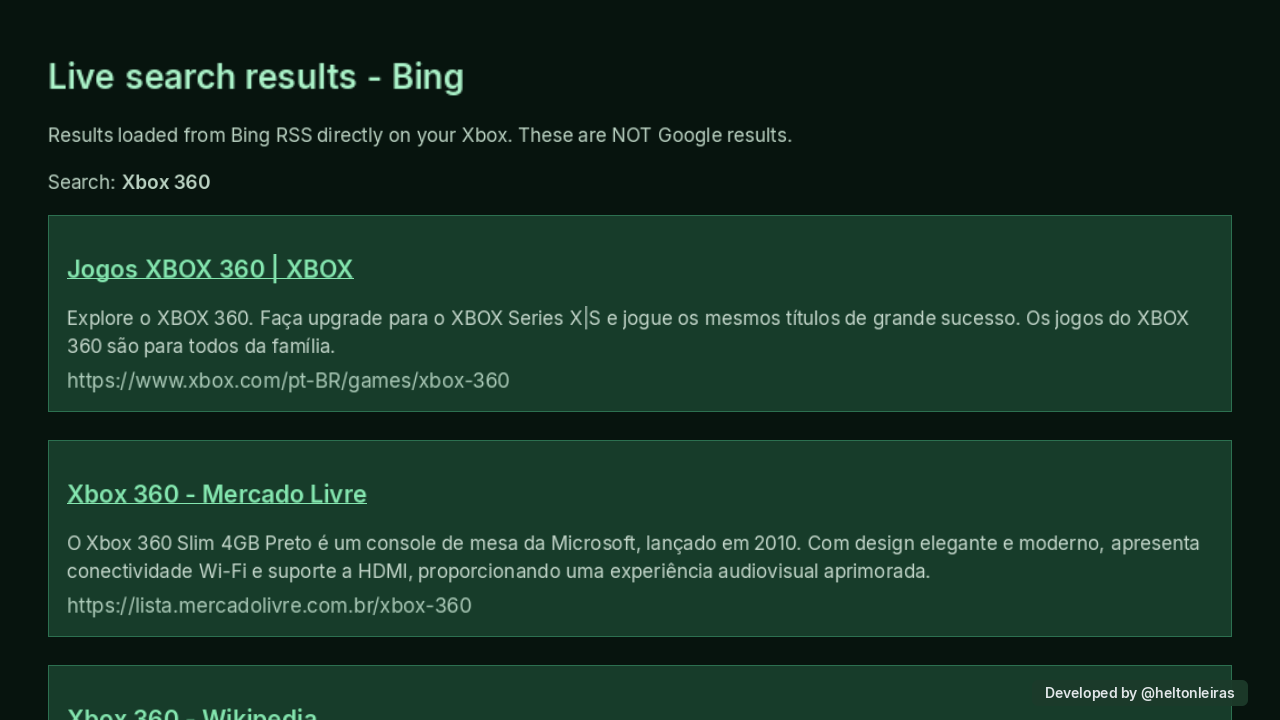
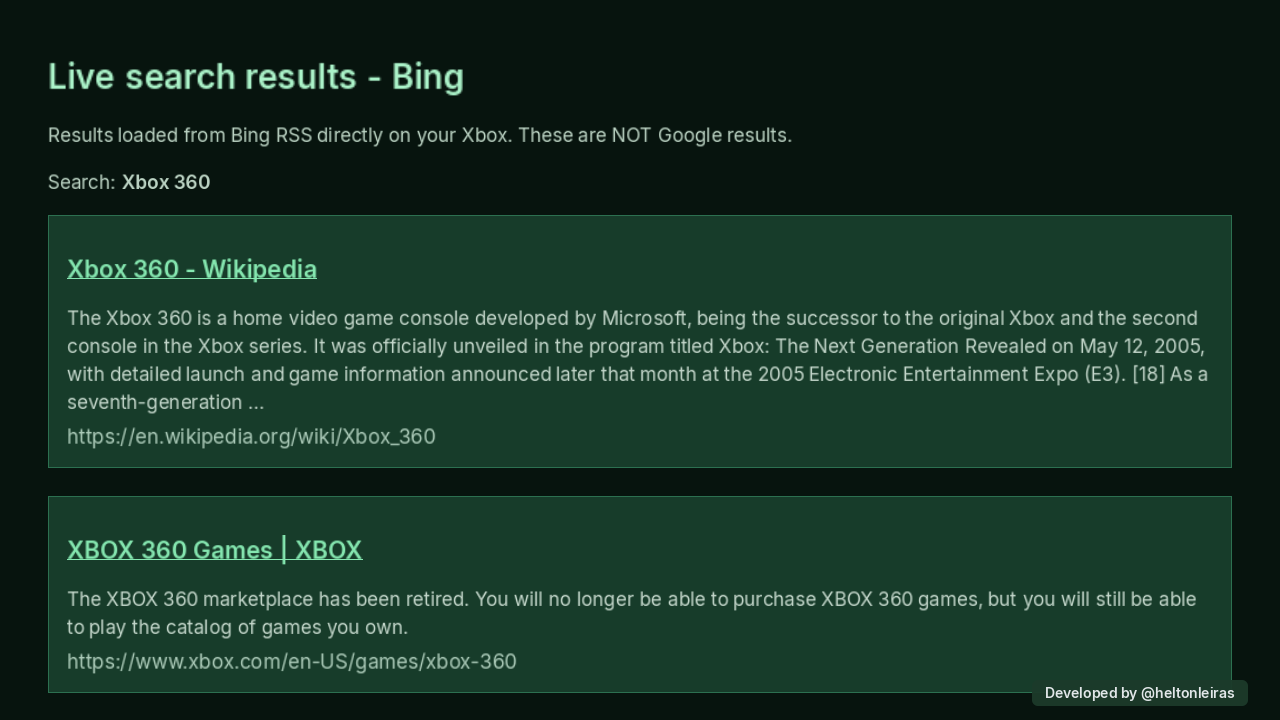
Make X360Browser interface and documentation English-only

Changed region(s): [[0.0312, 0.4278, 0.9688, 0.7028], [0.0312, 0.7333, 0.9688, 1.0], [0.0312, 0.3361, 0.2812, 0.3972]]

diff --git a/tests/native_checks.cpp b/tests/native_checks.cpp
@@ -19,10 +19,11 @@ static void save(const char* path) {
 #include "styled_checks.h"
 static void checks() {
     char url[WEB_URL];
-    assert(webSearchOrURL("Xbox 360",url,sizeof(url)) && !strcmp(url,"https://www.google.com/search?q=Xbox%20360"));
+    assert(webSearchOrURL("Xbox 360",url,sizeof(url)) && !strcmp(url,"https://www.google.com/search?q=Xbox%20360&hl=en"));
     assert(webSearchOrURL("xbox 360",url,sizeof(url),true) && webPrefix(url,"https://www.google.com/search?q="));
-    assert(webSearchOrURL("x360hub.com",url,sizeof(url),true) && !strcmp(url,"https://www.google.com/search?q=x360hub%2Ecom"));
+    assert(webSearchOrURL("x360hub.com",url,sizeof(url),true) && !strcmp(url,"https://www.google.com/search?q=x360hub%2Ecom&hl=en"));
     assert(browserGoogleHomeURL("https://www.google.com/"));
+    assert(browserGoogleHomeURL("https://www.google.com/?hl=en"));
     assert(!browserGoogleHomeURL("https://www.google.com/search?q=test"));
     std::string invalidGoogle;assert(!browserGooglePrepareHTML("https://www.google.com/","<html>not Google</html>",invalidGoogle));
     assert(webResolveURL("https://example.com/a/b","/test?q=1",url,sizeof(url)) && !strcmp(url,"https://example.com/test?q=1"));
@@ -99,16 +100,16 @@ static void searchResultsChecks(){
     assert(!browserGoogleRequiresJS("<html><title>Google Search</title><p>results</p></html>"));
     std::string html;
     assert(browserGoogleSearchNotice("https://www.google.com/search?q=Xbox%20360",html));
-    assert(html.find("https://www.bing.com/search?q=Xbox%20360&amp;format=rss")!=std::string::npos);
+    assert(html.find("https://www.bing.com/search?q=Xbox%20360&amp;format=rss&amp;mkt=en-US")!=std::string::npos);
     assert(html.find("NOT Google")==std::string::npos || html.find("Bing")!=std::string::npos);
     assert(html.find("Xbox 360")!=std::string::npos);
-    assert(browserIsBingRSSURL("https://www.bing.com/search?q=Xbox%20360&format=rss"));
+    assert(browserIsBingRSSURL("https://www.bing.com/search?q=Xbox%20360&format=rss&mkt=en-US"));
     assert(!browserIsBingRSSURL("https://www.bing.com/search?q=Xbox%20360"));
     webParseHTML(&document,html.c_str(),"https://www.google.com/search?q=Xbox%20360");
     assert(document.linkCount>=2);
     bool optIn=false;
     for(int i=0;i<document.linkCount;++i)
-        if(strstr(document.links[i],"bing.com/search?q=Xbox%20360&format=rss"))optIn=true;
+        if(strstr(document.links[i],"bing.com/search?q=Xbox%20360&format=rss&mkt=en-US"))optIn=true;
     assert(optIn);
     const char* feed="<?xml version='1.0'?><rss version='2.0'><channel>"
        "<item><title>X &amp; Y</title><link>https://example.com/a?x=1&amp;y=2</link>"
@@ -116,12 +117,12 @@ static void searchResultsChecks(){
        "<item><title>Another</title><link>https://example.com/b</link>"
        "<description>Second result</description></item></channel></rss>";
     int items=0;
-    assert(browserRenderBingRSS("https://www.bing.com/search?q=one&format=rss",feed,(int)strlen(feed),html,&items));
+    assert(browserRenderBingRSS("https://www.bing.com/search?q=one&format=rss&mkt=en-US",feed,(int)strlen(feed),html,&items));
     assert(items==2 && html.find("X &amp; Y")!=std::string::npos &&
            html.find("Real content")!=std::string::npos &&
            html.find("https://example.com/a?x=1&amp;y=2")!=std::string::npos);
     assert(html.find("NOT Google")!=std::string::npos);
-    assert(!browserRenderBingRSS("https://www.bing.com/search?q=test&format=rss",
+    assert(!browserRenderBingRSS("https://www.bing.com/search?q=test&format=rss&mkt=en-US",
            "<html>not rss</html>",20,html,&items));
     printf("PASS: real Google JS-required interstitial detected, opt-in Bing fallback, RSS escaped and clickable.\n");
 }
@@ -236,7 +237,7 @@ static void networkGoogleSearchFallbackCheck(){
         char clicked[WEB_URL]="";
         bool clickedOptIn=browserStyledClick(page,135,275,clicked,sizeof(clicked));
         printf("GOOGLE notice clickable: hit=%d url=%.150s\n",clickedOptIn,clicked);
-        if(!clickedOptIn || strcmp(clicked,"https://www.bing.com/search?q=Xbox%20360&format=rss"))exit(10);
+        if(!clickedOptIn || strcmp(clicked,"https://www.bing.com/search?q=Xbox%20360&format=rss&mkt=en-US"))exit(10);
         webParseHTML(&document,notice.c_str(),googleURL);
         document.styled=page;
         xui_canvas_t canvas;xui_canvas_init(&canvas,screen,1280,720,1280);
@@ -249,7 +250,7 @@ static void networkGoogleSearchFallbackCheck(){
        gotGoogle?"OK":"FAIL",blocked,shown,shown?document.linkCount:0,message);
     if(!gotGoogle||!blocked||!shown||!page||document.linkCount<2)exit(8);
     browserStyledDestroy(page);free(google.bytes);
-    const char* alternate="https://www.bing.com/search?q=Xbox%20360&format=rss";
+    const char* alternate="https://www.bing.com/search?q=Xbox%20360&format=rss&mkt=en-US";
     WebDownload feed={0};char issue[192]="";
     bool downloaded=webDownload(alternate,&feed,issue,sizeof(issue));
     std::string listing;int count=0;
@@ -272,7 +273,7 @@ static void networkGoogleSearchFallbackCheck(){
 static void networkGoogleHomepageCheck(){
     webNetState.cancel=0;WebDownload page={0};char err[192]="";
     DWORD start=GetTickCount();
-    bool ok=webDownload("https://www.google.com/",&page,err,sizeof(err));
+    bool ok=webDownload("https://www.google.com/?hl=en",&page,err,sizeof(err));
     std::string realGoogle;
     bool transformed=ok && browserGooglePrepareHTML(page.url,(const char*)page.bytes,realGoogle);
     void* styled=transformed?browserStyledCreate(realGoogle.c_str(),page.url,webStyledResourceFetch,NULL):NULL;

diff --git a/src/search_results.cpp b/src/search_results.cpp
@@ -96,7 +96,7 @@ bool browserGoogleSearchNotice(const char* googleURL,std::string& html){
     html+="<p>The actual Google response did not contain search results. It requested a modern JavaScript-enabled browser. X360Browser cannot run this Google page yet.</p>";
     if(safeQuery(query)){
         html+="<p>Search requested: <strong>"+escaped(decodeQuery(query))+"</strong></p>";
-        std::string alternate="https://www.bing.com/search?q="+query+"&format=rss";
+        std::string alternate="https://www.bing.com/search?q="+query+"&format=rss&mkt=en-US";
         html+="<a class='action' href='"+escaped(alternate)+"'>Search with Bing instead (real results, different provider)</a>";
         html+="<p class='note'>Bing is NOT Google. Selecting this link sends your search terms to Bing. Nothing is sent to Bing unless you select it.</p>";
     }
@@ -159,6 +159,6 @@ bool browserRenderBingRSS(const char* url,const char* rss,int size,std::string& 
         ++found;
     }
     if(items)*items=found;
-    html+="<p><a href='https://www.google.com/'>Google home</a></p></div></body></html>";
+    html+="<p><a href='https://www.google.com/?hl=en'>Google home</a></p></div></body></html>";
     return found>0 && html.size()<WEB_HTML_LIMIT;
 }

diff --git a/src/lg_ui.h b/src/lg_ui.h
@@ -24,9 +24,9 @@ static void lgGoogleSearchOverlay(xui_canvas_t* c,const NativeView* view){
     xui_round_rect(c,328,274+offset,624,60,28,0xffffff,255);
     xui_round_frame(c,328,274+offset,624,60,28,hover?3:2,hover?0x4285f4:0xdadce0);
     xui_mask(c,&shell_search,350,291+offset,0x60666d,255);
-    browserText(c,XUI_F_BODY,398,293+offset,"Pesquisar no Google",0x5f6368,500);
+    browserText(c,XUI_F_BODY,398,293+offset,"Search Google",0x5f6368,500);
     xui_round_rect(c,503,354+offset,274,47,7,hoverButton?0xe6f0ff:0xf8f9fa,255);
-    browserCentered(c,XUI_F_BODY,503,354+offset,274,47,"Pesquisa Google",0x202124);
+    browserCentered(c,XUI_F_BODY,503,354+offset,274,47,"Google Search",0x202124);
 }
 static int lgPageTop(const NativeView* view){return view->chrome?76:0;}
 static int nativeHitLink(const NativeView* view) {

diff --git a/tools/verify_google_results.py b/tools/verify_google_results.py
@@ -64,7 +64,7 @@ def main():
         headers={
             "User-Agent": USER_AGENT,
             "Accept": "text/html,application/xhtml+xml",
-            "Accept-Language": "pt-BR,pt;q=0.9",
+            "Accept-Language": "en-US,en;q=0.9",
         },
     )
     try:
@@ -82,7 +82,7 @@ def main():
     if "/httpservice/retry/enablejs" in text:
         print("FAIL: Real Google responded with a JavaScript-required interstitial, not results.")
         return 1
-    if "Atualize o navegador" in text or "Your browser is no longer supported" in text:
+    if "Your browser is no longer supported" in text or "Please update your browser" in text:
         print("FAIL: Real Google rejected this browser as unsupported.")
         return 1
 

diff --git a/src/native_main.cpp b/src/native_main.cpp
@@ -309,7 +309,7 @@ static void click() {
     }
     if(home) {
         int hit=nativeHomeHit((int)mouseX,(int)mouseY);
-        const char* urls[]={"https://www.google.com/","https://x360hub.vercel.app/","https://en.wikipedia.org/wiki/Main_Page","https://example.com/"};
+        const char* urls[]={"https://www.google.com/?hl=en","https://x360hub.vercel.app/","https://en.wikipedia.org/wiki/Main_Page","https://example.com/"};
         if(hit==0)openKeyboard();else if(hit>=1 && hit<=4)navigate(urls[hit-1]);else if(hit==5)navigate("browser:help");
     } else {
         NativeView googleView=makeView();

diff --git a/src/native_document.h b/src/native_document.h
@@ -84,7 +84,10 @@ static bool webSearchOrURL(const char* input,char* output,size_t capacity,bool g
         if(isalnum(*p) || *p=='-' || *p=='_')output[n++]=*p;
         else {output[n++]='%';output[n++]=hex[*p>>4];output[n++]=hex[*p&15];}
     }
-    output[n]=0;return true;
+    // Force English for queries sent to Google, independent of console locale.
+    if(n+7>capacity)return false;
+    memcpy(output+n,"&hl=en",7);
+    return true;
 }
 static int webUTF8(unsigned code,char* out) {
     if(!code || code>0x10ffff || (code>=0xd800 && code<=0xdfff))code='?';

diff --git a/README.md b/README.md
@@ -1,65 +1,65 @@
 # X360Browser
 
-**Navegador experimental que roda 100% diretamente no Xbox 360 RGH/JTAG.** É um aplicativo nativo `default.xex`, feito para o processador PowerPC do console. **Não precisa de PC, streaming, navegador remoto, proxy ou servidor intermediário** para funcionar.
+**An experimental web browser that runs 100% natively on Xbox 360 RGH/JTAG.** X360Browser is a PowerPC application distributed as `default.xex`. It does **not** require a PC, remote browser, streaming service, proxy, or intermediary server.
 
-A conexão é direta do Xbox 360 com os sites da internet. **Os servidores dos próprios sites continuam necessários**, assim como a conexão com a internet. Recursos como o catálogo X360HUB consultam dados públicos do próprio site.
+Your Xbox 360 connects directly to websites over the internet. **An internet connection and the websites' own servers are still required** to access online pages. The X360HUB catalog reads publicly available data directly from its official website.
 
-![X360Browser](docs/green-home.png)
+![X360Browser home screen](docs/green-home.png)
 
-## Baixar e instalar
+## Download and install
 
-**Versão atual: 0.10.0 (experimental)**
+**Current version: 0.10.0 (experimental)**
 
-[Baixar default.xex](https://github.com/heltindev/X360Browser/releases/download/v0.10.0-dom-foundation-preview/default.xex) · [Ver a versão atual](https://github.com/heltindev/X360Browser/releases/tag/v0.10.0-dom-foundation-preview)
+[Download default.xex](https://github.com/heltindev/X360Browser/releases/download/v0.10.0-dom-foundation-preview/default.xex) | [Current release](https://github.com/heltindev/X360Browser/releases/tag/v0.10.0-dom-foundation-preview)
 
-1. Baixe o arquivo `default.xex` na página de Releases.
-2. Copie o arquivo para o HD ou USB do Xbox 360 RGH/JTAG.
-3. Execute o XEX pelo Aurora.
+1. Download `default.xex` from the current release.
+2. Copy the file to your Xbox 360 RGH/JTAG HDD or USB drive.
+3. Launch the XEX with Aurora.
 
-Não é necessário iniciar nada em um computador ou hospedar um servidor próprio. Para páginas HTTPS, mantenha a data/hora do console configuradas corretamente.
+No PC application or self-hosted server is necessary. Make sure your console's date and time are correct for HTTPS certificates.
 
-## O que já existe
+## Current features
 
-- Interface escura e verde, estilo Smart TV, com barra que se recolhe.
-- Mouse virtual pelo controle, até quatro abas, histórico e barra de endereço.
-- Download direto de páginas HTML, CSS e imagens por HTTP/HTTPS.
-- Suporte parcial a JavaScript e layout responsivo; imagens JPEG, PNG, BMP e primeiro quadro de GIF.
-- Página inicial do Google com busca; resultados do Google ainda não funcionam corretamente.
-- Alternativa opcional de resultados do Bing, identificada como Bing.
-- Visualização do catálogo X360HUB com dados públicos recebidos diretamente pelo console.
+- Dark and green Smart TV-inspired interface with an auto-hiding toolbar.
+- Controller-operated mouse cursor, up to four tabs, history, and an address bar.
+- Direct HTTP/HTTPS downloads of supported HTML, CSS, and images.
+- Partial JavaScript and responsive layout support; JPEG, PNG, BMP, and the first frame of GIF images.
+- Google homepage and a native search field; actual Google search results are **not working yet**.
+- Optional, clearly identified Bing search results as a separate provider.
+- A native view of the X360HUB catalog using public data fetched by the console.
 
-**Atenção:** é uma versão em desenvolvimento. Nem todos os sites abrem corretamente. Os testes em PC não substituem um teste no Xbox 360 físico.
+**Important:** This is an experimental build. Many modern websites are not fully supported. Windows-host tests do not replace testing on real Xbox 360 hardware.
 
-## Controles
+## Controller buttons
 
-| Botão | Função |
+| Button | Action |
 |---|---|
-| Analógico esquerdo / direcional | Mover cursor |
-| A | Clicar |
-| LT / RT ou analógico direito | Rolar a página |
-| B / LB | Voltar |
-| RB | Avançar |
-| Y / X | Endereço ou pesquisa |
-| START / R3 | Recarregar |
-| BACK | Página inicial |
-| L3 | Menu |
+| Left stick / D-pad | Move the cursor |
+| A | Click |
+| LT / RT or right stick | Scroll |
+| B / LB | Back |
+| RB | Forward |
+| Y / X | Address bar or search |
+| START / R3 | Reload |
+| BACK | Home screen |
+| L3 | Open the menu |
 
-## O que falta atualizar
+## Development roadmap
 
-- **Motor JavaScript moderno:** portar um motor compatível com o Xbox 360 PowerPC.
-- **DOM completo:** eventos, formulários, atualização dinâmica das páginas e navegação.
-- **Web APIs:** implementar fetch, XHR, cookies, armazenamento, tarefas assíncronas e compatibilidade HTTPS.
-- **HTML/CSS:** melhorar Flexbox, Grid, fontes, posicionamento e páginas responsivas.
-- **Google:** carregar e navegar pelos resultados reais, sem tela branca ou outro buscador no lugar.
-- **Vídeos:** adicionar suporte real a MP4/H.264, reprodução HTML5 e, futuramente, sites como YouTube.
-- **Estabilidade:** corrigir bugs, uso de memória, velocidade e testar cada recurso em um Xbox físico.
+- **Modern JavaScript engine:** Port a modern ECMAScript runtime to Xbox 360 PowerPC.
+- **Complete DOM:** Implement persistent nodes, events, forms, and dynamic page updates.
+- **Browser Web APIs:** Support fetch/XHR, cookies, storage, asynchronous tasks, and web security rules.
+- **HTML/CSS:** Improve Flexbox, Grid, fonts, positioning, and responsive layouts.
+- **Google Search:** Display and navigate actual Google results without a blank screen or a substitute provider.
+- **Video:** Implement real MP4/H.264 and HTML5 video playback, with longer-term support for video websites.
+- **Performance and reliability:** Fix crashes, memory limits, rendering speed, and hardware compatibility.
 
-Tudo isso deve funcionar **localmente no próprio Xbox 360**, sem depender de PC ou servidor intermediário.
+**All browser execution must remain local to the Xbox 360**, without a PC, remote browser, or intermediary server. Online websites still use their own internet servers.
 
-## Desenvolvimento
+## Building from source
 
-Código C/C++ para **Visual Studio 2010 + Xbox 360 SDK**. Para compilar, execute `build-release.cmd`; o resultado é `Release/default.xex`.
+The project is written in C/C++ for **Visual Studio 2010 + Xbox 360 SDK**. Run `build-release.cmd` to produce `Release/default.xex`.
 
-A versão atual usa litehtml e Duktape, com limitações conhecidas. O projeto é independente, não afiliado à Microsoft, LG ou Google. Licença: GPL-3.0. Bibliotecas e licenças em [THIRD_PARTY.md](THIRD_PARTY.md).
+The current build uses litehtml and Duktape, with known limitations. It is an independent project, not affiliated with Microsoft, LG, or Google. Licensed under GPL-3.0. See [THIRD_PARTY.md](THIRD_PARTY.md) for third-party notices.
 
-**Desenvolvido por [@heltonleiras](https://github.com/heltindev).**
+**Developed by [@heltonleiras](https://github.com/heltindev).**

diff --git a/docs/QUICKJS_XDK_PORT_DIAGNOSTIC.md b/docs/QUICKJS_XDK_PORT_DIAGNOSTIC.md
@@ -1,35 +1,37 @@
-# Google Search no Xbox 360 — diagnóstico do porte QuickJS
+# Google Search on Xbox 360: QuickJS port diagnostic
 
-**Status: ainda não funciona.** Este documento registra um teste real de compilação, não um lançamento do motor moderno.
+**Status: Not working yet.** This document records real PowerPC compilation experiments. It does not announce a working modern browser engine.
 
-## O que foi testado
+## What was tested
 
-- SDK Xbox 360 2010-01, Visual Studio 2010 e compilador PowerPC Xenon, que compilam normalmente o X360Browser atual.
-- QuickJSpp (https://github.com/c-smile/quickjspp), porta do QuickJS para Microsoft Visual C++ destinada a VS2017/VS2019.
-- Projeto isolado XEX com quickjs.c, libregexp.c, libunicode.c, cutils.c e script ECMAScript moderno de teste (const, arrow functions e Array.map).
-- Ajustes experimentais para inttypes.h, fenv.h, windows.h, intrin.h, endianness big-endian do Xbox e inline.
+- Xbox 360 SDK 2010-01, Visual Studio 2010, and the Xenon PowerPC compiler, which successfully build the existing X360Browser.
+- QuickJSpp (https://github.com/c-smile/quickjspp), a QuickJS port for Microsoft Visual C++ intended for VS2017 and VS2019.
+- An isolated XEX project with `quickjs.c`, `libregexp.c`, `libunicode.c`, `cutils.c`, and a small modern JavaScript test using `const`, arrow functions, and `Array.map`.
+- Experimental changes for `inttypes.h`, `fenv.h`, `windows.h`, `intrin.h`, Xbox big-endian byte order, and C `inline`.
 
-**Resultado:** o protótipo QuickJS NÃO compilou em PowerPC XDK. Após ajustar os primeiros cabeçalhos, a tentativa C gerou pelo menos **102 erros** antes do limite do compilador (declarações C99 e incompatibilidades de tipo). A tentativa C++ gerou pelo menos **126 erros** (conversões inválidas de void*, _BitScan*, _msize e outras APIs ausentes). Os números são parciais. QuickJSpp oficialmente descreve suporte a Visual Studio 2017/2019, não ao compilador PowerPC do Xbox SDK 2010.
+**Result:** The QuickJS prototype **did not compile** with the Xbox 360 PowerPC SDK. After fixing the initial missing headers, the C compilation path produced at least **102 errors** before reaching the compiler's error limit, including C99 declaration and type incompatibilities. The C++ path produced at least **126 errors**, including invalid `void*` conversions and missing `_BitScan*` and `_msize` functions. These are incomplete counts because compilation stopped at the error limit.
 
-Por isso, nenhuma parte dessa tentativa quebrada foi ligada ao default.xex de produção. Duktape continua sendo o motor ativo; não houve substituição validada.
+No failed experimental code was linked into the production `default.xex`. Duktape remains the active JavaScript engine, and no modern replacement has been validated.
 
-## Teste verificável do Google
+## Reproducible Google Search test
 
-Execute na raiz do projeto:
+From the project root, run:
 
-    python tools/verify_google_results.py
+```bash
+python tools/verify_google_results.py
+```
 
-Em 01/11/2026, a resposta direta de https://www.google.com/search?q=Xbox%20360 foi HTTP 200 com aproximadamente 93 KB, mas continha a exigência de JavaScript em /httpservice/retry/enablejs e nenhum resultado orgânico real. O teste exibiu FAIL. Com identificação de navegador Lynx, o Google respondeu com pedido de atualização do navegador, também sem resultados. Trocar o User-Agent não é solução.
+On November 1, 2026, the native-style direct request to `https://www.google.com/search?q=Xbox%20360` returned HTTP 200 and approximately 93 KB of HTML, but required JavaScript through `/httpservice/retry/enablejs` and did not include genuine organic results. The test correctly returned **FAIL**. When a Lynx browser identifier was used, Google instead returned an unsupported-browser warning, also without search results. Changing the User-Agent alone is not a solution.
 
-## Para que o Google realmente funcione
+## What is required for actual Google Search support
 
-1. Compilador moderno com ABI Xenon/XDK correto, código PowerPC big-endian e ambiente C/CRT compatível, seguido de porte de runtime ES2020+.
-2. XEX mínimo com o novo motor, executado em Xbox RGH/JTAG real, com limites de memória e execução.
-3. DOM persistente, window/document, eventos, CSSOM, Promise e execução de módulos, em vez do preprocessamento HTML atual.
-4. Web APIs seguras: fetch/XHR, URL, cookies, storage, regras de origem e TLS.
-5. Renderizador HTML/CSS atualizado para Flexbox, Grid e layout web moderno.
-6. Teste final obrigatório: resultados com títulos e links verdadeiramente obtidos do Google, renderizados e clicáveis no Xbox físico. Bing, imagens estáticas e navegadores remotos não contam.
+1. A modern compiler targeting the **correct Xenon/XDK ABI**, PowerPC big-endian code, and a compatible C runtime, followed by a port of an ES2020+ engine.
+2. A minimal native XEX running the engine on a **physical Xbox 360 RGH/JTAG**, with verified execution and memory limits.
+3. A persistent DOM, `window`/`document`, events, CSSOM, promises, and script modules instead of the current HTML preprocessor.
+4. Secure browser Web APIs: fetch/XHR, URL handling, cookies, storage, origin restrictions, and TLS.
+5. Updated HTML/CSS rendering with true Flexbox, Grid, responsive layout, and font support.
+6. A final hardware test showing **real Google result titles and links** rendered and clickable on the Xbox itself. Bing results, screenshots, and remotely rendered pages do not qualify.
 
-O compilador LLVM com suporte ao ABI Xenon do OXDK é um possível caminho de pesquisa, mas não foi instalado nem validado neste computador. O compilador PowerPC genérico do LLVM não substitui automaticamente o ABI do XDK.
+An LLVM toolchain with **Xenon ABI support**, such as experimental OXDK-related compiler work, is a possible research direction, but has **not** been installed or validated here. Generic LLVM PowerPC support does not automatically match the proprietary XDK ABI.
 
-**Até passar no teste acima, a pesquisa Google continua não implementada.**
+**Until the requirements above are met, actual Google Search results remain unsupported.** The browser itself must continue running directly on the console without any PC, remote browser, or intermediary server.

diff --git a/CHANGELOG.md b/CHANGELOG.md
@@ -1,5 +1,15 @@
 # Changelog
 
+## English-only cleanup - 2026-11-01
+
+- Translate the README and QuickJS/XDK diagnostic documentation into English.
+- Replace the remaining Portuguese text in the native Google search field and button.
+- Request the English Google homepage (`?hl=en`) and append `hl=en` to native Google searches.
+- Update browser screenshots, the release description and the development verification records.
+- Preserve native Xbox 360 execution with no PC, remote browser or intermediary server. The browser still depends on each site's own servers for online pages.
+- Actual Google search results, modern JavaScript and MP4/H.264 remain unsupported; physical-console testing is still required.
+
+
 ## Technical investigation — native Google Search / QuickJS (2026-11-01)
 
 - Tested a minimal QuickJSpp PowerPC-XDK probe with a modern-JS expression; the MSVC 2010 C/C++ toolchain could not compile it. This is not integrated into the release XEX.
